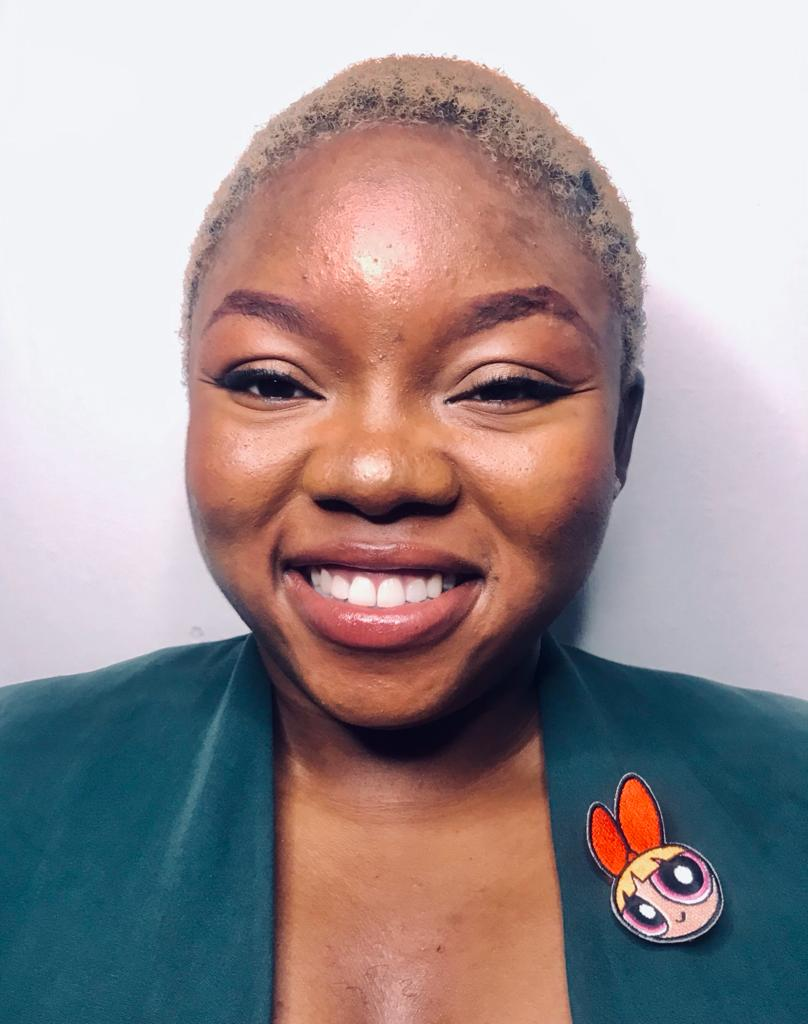
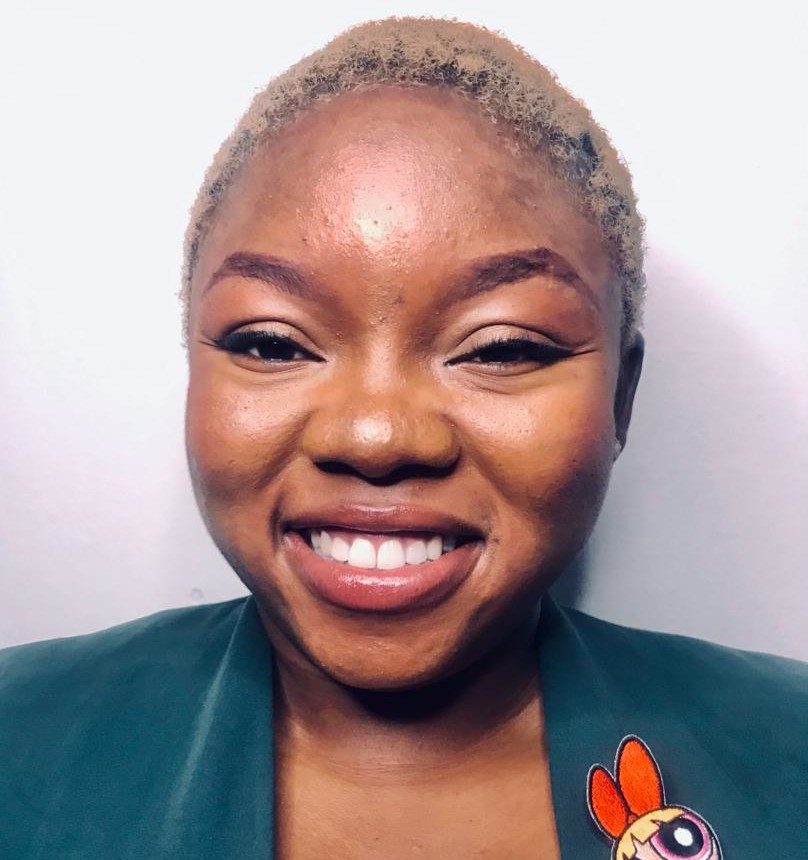
updated

diff --git a/index.html b/index.html
@@ -31,7 +31,7 @@
       <div class="container col-xxl-8 px-4 py-5 custom-bg">
         <div class="row flex-lg-row-reverse align-items-center g-5 py-5">
           <div class="col-10 col-sm-8 col-lg-6">
-            <img src="./images/Portfolio pic.jpg" class="d-block rounded-circle mx-lg-auto img-fluid" alt="Bootstrap Themes" width="700" height="500" loading="lazy">
+            <img src="./images/Portfolio pic.jpg" class="d-block rounded-circle mx-lg-auto img-fluid" alt="Bootstrap Themes" width="500" height="500" loading="lazy">
           </div>
           <div class="col-lg-6">
             <h1 class="display-5 fw-bold text-body-emphasis lh-1 mb-3">Hello, I am Blessing Chukwunwike</h1>
@@ -94,7 +94,10 @@
           </div>
         </div>
       </div>
-    
+    </section>
+
+    <section>
+
     </section>
 
     <script src="https://code.jquery.com/jquery-3.5.1.slim.min.js"></script>

diff --git a/css/style.css b/css/style.css
@@ -22,7 +22,9 @@
 .text-center {
     font-weight: bolder;
     font-size: 2.5em;
-    text-align: left;
+    text-align: end!important;
+    background-color: #2C3E50;
+    color: white !important;
 }
 
 .card {
@@ -37,4 +39,9 @@
 
 a {
     text-decoration: none !important; /* Remove underline */
+}
+
+.btn {
+    background-color: #2C3E50 !important;
+    
 }
